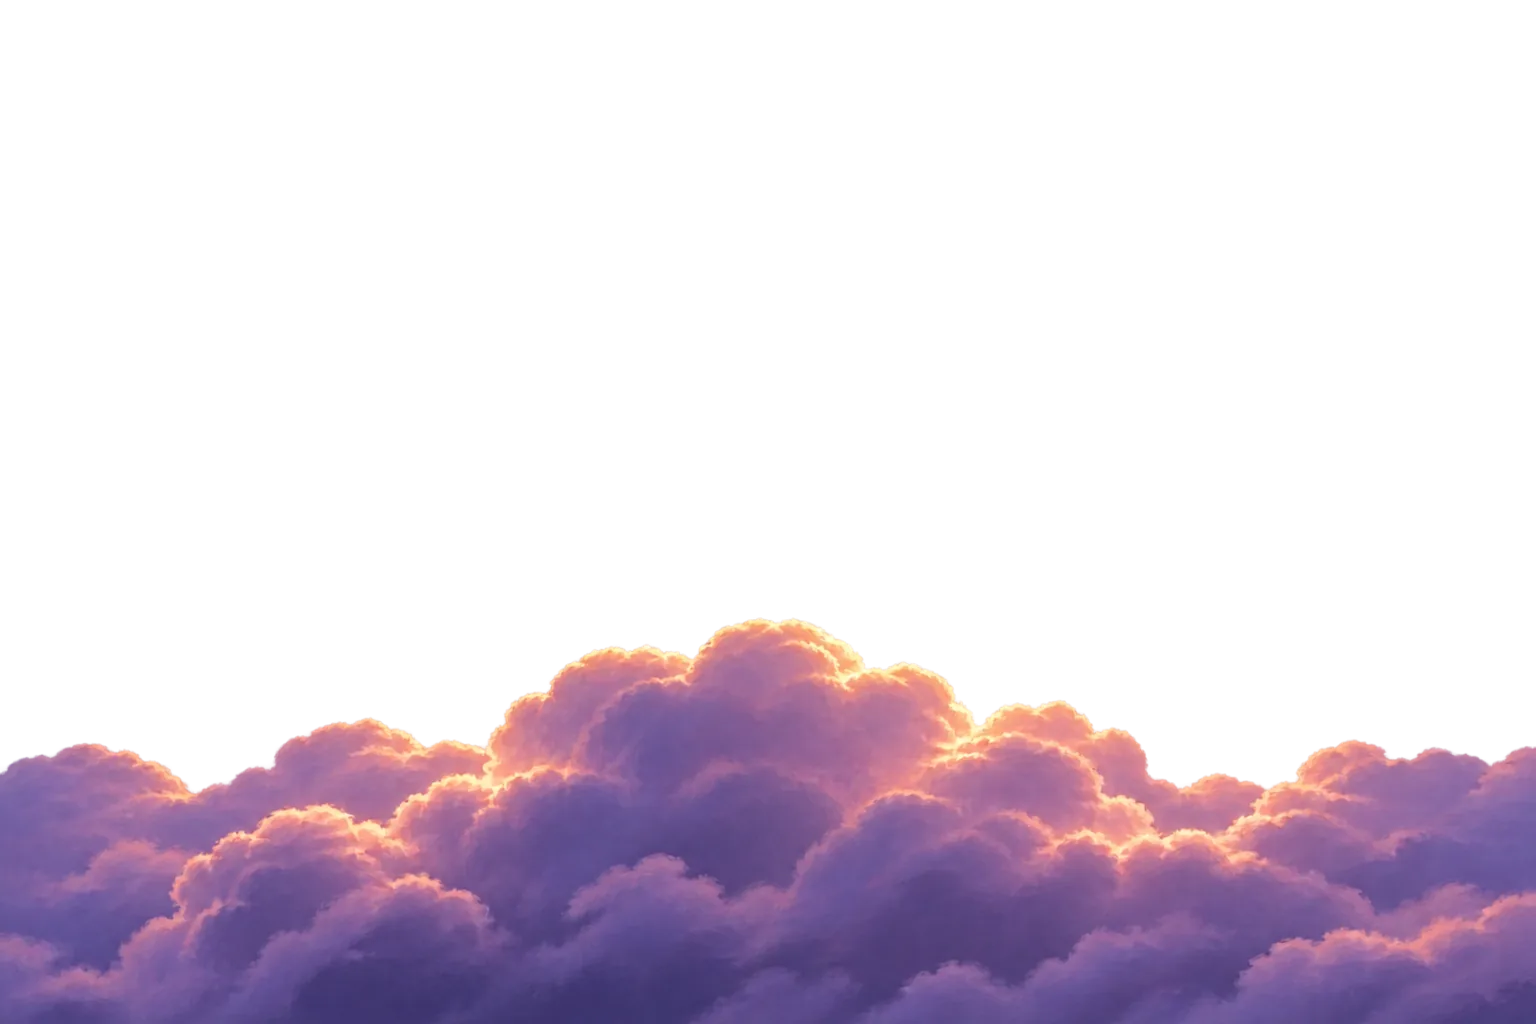
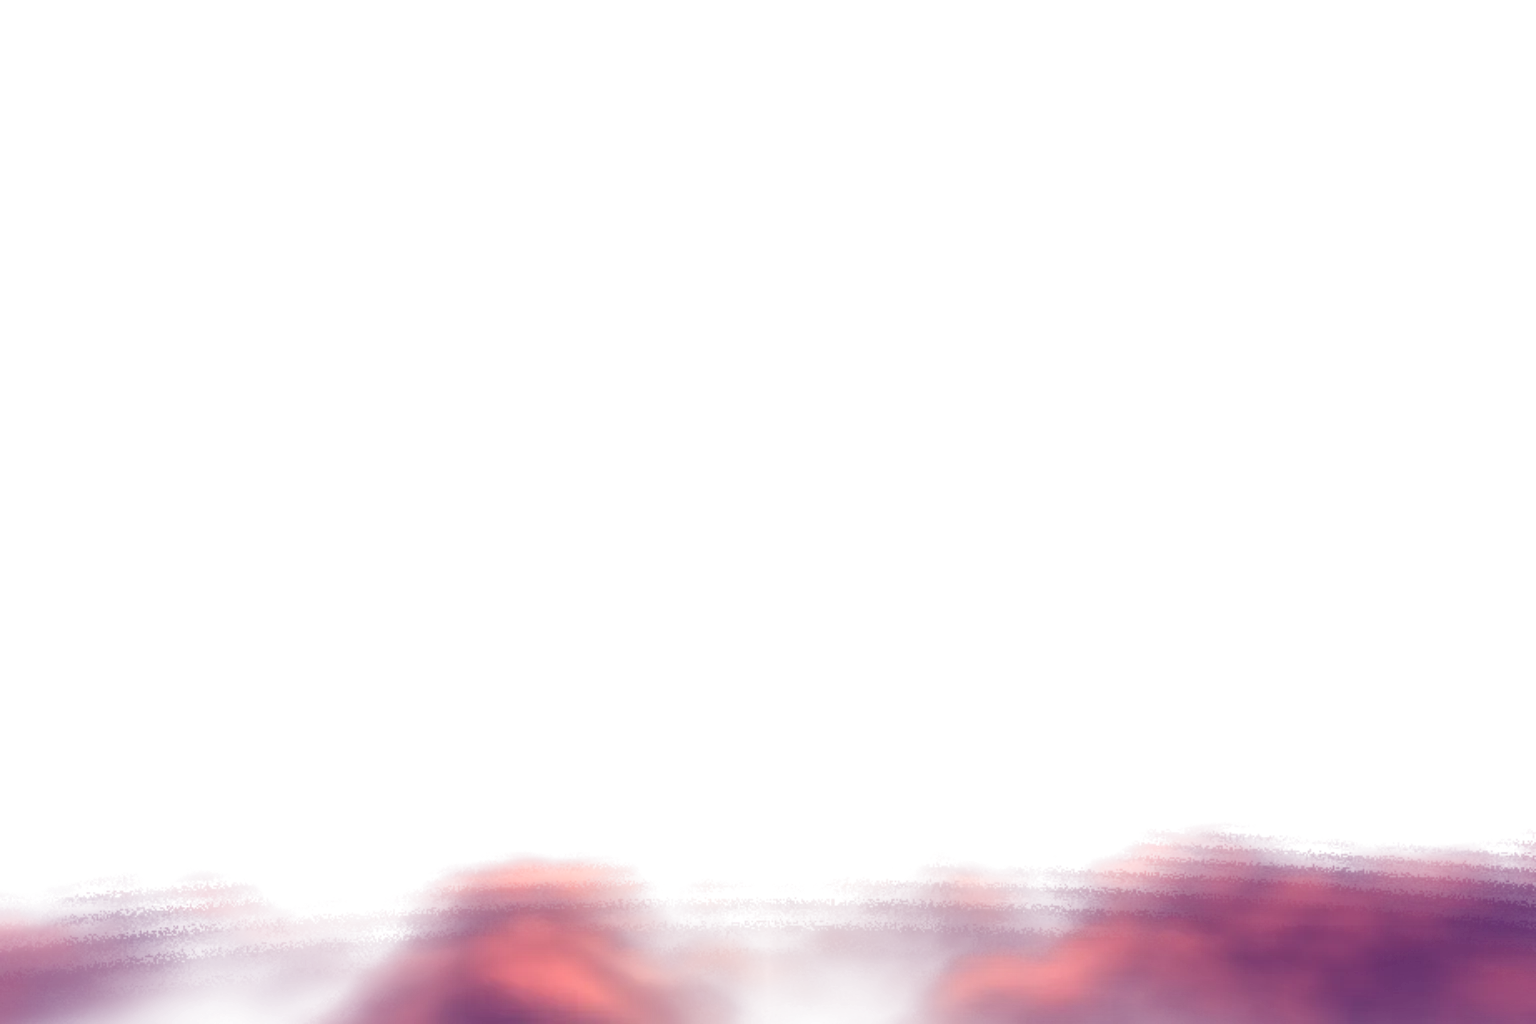
Preview: procedural volumetric sky
Replace the painted sky layers with the shader sky (volumetric clouds, sun optics) and its fallback stills.

Changed region(s): [[0.0, 0.5938, 1.0, 1.0]]

diff --git a/js/landing2/sky-sea.js b/js/landing2/sky-sea.js
@@ -1,0 +1,237 @@
+// Procedural dusk sky above a sea of volumetric clouds (no images, no libraries).
+// Two canvases share one look: `back` draws the sky, the sun optics and the clouds beyond a split distance (opaque);
+// `front` draws only the nearest clouds (transparent elsewhere), so they can sit in front of the characters' feet.
+// Each canvas renders in two passes: soft volumetric clouds into a small offscreen texture (they tolerate low
+// resolution), then a sharper pass that paints the sky and sun and composites the clouds on top.
+const VERT = 'attribute vec2 a; void main(){ gl_Position = vec4(a, 0.0, 1.0); }';
+
+const COMMON = `
+#ifdef GL_FRAGMENT_PRECISION_HIGH
+precision highp float;
+#else
+precision mediump float;
+#endif
+uniform vec2 uRes;
+uniform float uTime, uHz, uSunX, uWarm, uFlash, uScroll, uLayer, uSplit, uAsp;
+float h21(vec2 p){ return fract(sin(dot(p, vec2(127.1, 311.7))) * 43758.5453); }
+float vnoise(vec2 p){
+  vec2 i = floor(p), f = fract(p); f = f * f * (3.0 - 2.0 * f);
+  return mix(mix(h21(i), h21(i + vec2(1.0, 0.0)), f.x), mix(h21(i + vec2(0.0, 1.0)), h21(i + vec2(1.0, 1.0)), f.x), f.y);
+}
+float fbm2(vec2 p){ float s = 0.0, a = 0.5; for (int i = 0; i < 4; i++){ s += a * vnoise(p); p = p * 2.03 + vec2(17.1, 9.2); a *= 0.5; } return s; }
+`;
+
+// ---------- pass 1: volumetric clouds (premultiplied colour + coverage) ----------
+const FRAG_CLOUD = COMMON + `
+float hash3(vec3 p){ p = fract(p * 0.3183099 + 0.1); p *= 17.0; return fract(p.x * p.y * p.z * (p.x + p.y + p.z)); }
+float noise3(vec3 x){
+  vec3 i = floor(x), f = fract(x); f = f * f * (3.0 - 2.0 * f);
+  return mix(mix(mix(hash3(i), hash3(i + vec3(1.0, 0.0, 0.0)), f.x), mix(hash3(i + vec3(0.0, 1.0, 0.0)), hash3(i + vec3(1.0, 1.0, 0.0)), f.x), f.y),
+             mix(mix(hash3(i + vec3(0.0, 0.0, 1.0)), hash3(i + vec3(1.0, 0.0, 1.0)), f.x), mix(hash3(i + vec3(0.0, 1.0, 1.0)), hash3(i + vec3(1.0, 1.0, 1.0)), f.x), f.y), f.z);
+}
+const mat3 M3 = mat3(0.00, 0.80, 0.60, -0.80, 0.36, -0.48, -0.60, -0.48, 0.64);
+// density of the cloud sea: cumulus lumps whose tops billow up to ~1.6
+float den(vec3 p, int oct){
+  vec3 q = p + vec3(uTime * 0.10, 0.0, uTime * 0.035);
+  float lump = smoothstep(0.2, 0.85, noise3(vec3(q.x * 0.11, 0.3, q.z * 0.11)));
+  float top = 0.25 + 1.55 * lump;
+  float f = 0.0, a = 0.5; vec3 r = q * 0.75;
+  for (int i = 0; i < 5; i++){ if (i >= oct) break; f += a * noise3(r); r = M3 * r * 2.03; a *= 0.5; }
+  float d = (top - p.y) * 1.5 + (f - 0.5) * 2.3;
+  return clamp(d, 0.0, 1.0) * smoothstep(-0.3, 0.3, p.y);
+}
+float hg(float mu, float g){ float g2 = g * g; return (1.0 - g2) / pow(1.0 + g2 - 2.0 * g * mu, 1.5) * 0.0796; }
+
+void main(){
+  vec2 frag = gl_FragCoord.xy;
+  float v = 1.0 - frag.y / uRes.y;
+  float x = (frag.x / uRes.x - 0.5) * uAsp;
+  vec3 ro = vec3(0.0, 2.0, uScroll * 2.4);
+  vec3 rd = normalize(vec3(x, uHz - v, 1.3));
+  vec4 acc = vec4(0.0);
+  if (rd.y < -0.0005){
+    vec3 sunDir = normalize(vec3((uSunX - 0.5) * uAsp, 0.035, 1.3));
+    float mu = dot(rd, sunDir);
+    float phase = hg(mu, 0.72) * 0.85 + hg(mu, -0.15) * 0.4;
+    float sunNear = exp(-abs(x - (uSunX - 0.5) * uAsp) * 2.2);
+    float tTop = (ro.y - 1.85) / -rd.y, tBot = (ro.y + 0.3) / -rd.y;
+    bool front = uLayer > 0.5;
+    float t0 = front ? tTop : max(tTop, uSplit);
+    float t1 = min(front ? min(tBot, uSplit) : tBot, 70.0);
+    float t = t0 + 0.02 * h21(frag);                       // jitter against banding
+    for (int i = 0; i < 84; i++){
+      if (t > t1 || acc.a > 0.985) break;
+      vec3 p = ro + rd * t;
+      int oct = t < 7.0 ? 5 : (t < 18.0 ? 4 : 3);
+      float d = den(p, oct);
+      float dt = max(0.045, 0.034 * t);
+      if (d > 0.002){
+        float dl = den(p + sunDir * 0.32, 3);
+        float dif = clamp((d - dl) / 0.45, 0.0, 1.0);
+        float hgt = clamp(p.y / 1.7, 0.0, 1.0);
+        vec3 amb = mix(vec3(0.25, 0.12, 0.37), vec3(0.72, 0.44, 0.70), hgt * hgt);
+        vec3 sunC = mix(vec3(1.0, 0.44, 0.30), vec3(1.0, 0.74, 0.44), sunNear) * 1.15;
+        vec3 lin = amb + sunC * dif * (0.6 + 1.9 * phase) + sunC * phase * 0.4 * (1.0 - d);
+        vec3 c = lin * mix(vec3(1.0), vec3(0.86, 0.80, 0.95), d);
+        float fg = 1.0 - exp(-t * 0.03);
+        vec3 haze = mix(vec3(0.98, 0.58, 0.68), vec3(1.0, 0.78, 0.52), sunNear);
+        c = mix(c, haze, fg * 0.8);
+        c = c / (1.0 + 0.3 * max(c.r, max(c.g, c.b)));       // soft shoulder: no blown-out patch under the sun
+        c = max(mix(vec3(dot(c, vec3(0.299, 0.587, 0.114))), c, 1.3), 0.0);   // painted, saturated look
+        float a = 1.0 - exp(-d * dt * 4.2);
+        acc.rgb += (1.0 - acc.a) * a * c;
+        acc.a += (1.0 - acc.a) * a;
+      }
+      t += dt;
+    }
+  }
+  gl_FragColor = acc;
+}`;
+
+// ---------- pass 2: sky, sun optics, composite ----------
+const FRAG_COMP = COMMON + `
+uniform sampler2D uCloud;
+vec3 spectral(float x){
+  float h = (1.0 - clamp(x, 0.0, 1.0)) * 0.78;
+  return clamp(vec3(abs(h * 6.0 - 3.0) - 1.0, 2.0 - abs(h * 6.0 - 2.0), 2.0 - abs(h * 6.0 - 4.0)), 0.0, 1.0);
+}
+void main(){
+  vec2 frag = gl_FragCoord.xy, uv = frag / uRes;
+  float v = 1.0 - uv.y;
+  float x = (uv.x - 0.5) * uAsp;
+  float sunX = (uSunX - 0.5) * uAsp, sunV = uHz - 0.012;
+  float dxs = x - sunX, sunNear = exp(-abs(dxs) * 2.3);
+  bool back = uLayer < 0.5;
+  vec4 cl = texture2D(uCloud, uv);
+  vec3 col = vec3(0.0);
+
+  if (back){
+    float t = clamp((uHz - v) / max(uHz, 0.01), 0.0, 1.0);
+    vec3 cHz  = mix(vec3(0.99, 0.54, 0.44), vec3(1.0, 0.72, 0.42), sunNear);
+    col = mix(cHz, vec3(0.80, 0.50, 0.64), smoothstep(0.0, 0.09, t));
+    col = mix(col, vec3(0.42, 0.48, 0.82), smoothstep(0.06, 0.36, t));
+    col = mix(col, vec3(0.17, 0.28, 0.66), smoothstep(0.30, 0.72, t));
+    col = mix(col, vec3(0.07, 0.13, 0.42), smoothstep(0.66, 1.0, t));
+    col = mix(col, vec3(1.0, 0.82, 0.52), exp(-abs(dxs) * 2.6) * exp(-t * 10.0) * 0.85);
+    float drift = uTime * 0.006;
+    float n1 = fbm2(vec2(x * 2.6 + drift, t * 16.0)) * fbm2(vec2(x * 6.5 - drift * 2.0 + 3.0, t * 34.0));
+    float m1 = smoothstep(0.30, 0.46, n1) * smoothstep(0.015, 0.06, t) * (1.0 - smoothstep(0.22, 0.42, t));
+    vec3 c1 = mix(vec3(1.0, 0.66, 0.54), vec3(0.96, 0.75, 0.86), smoothstep(0.05, 0.3, t));
+    col = mix(col, mix(c1, vec3(1.0, 0.88, 0.66), sunNear * 0.6), m1 * 0.8);
+    float n2 = fbm2(vec2(x * 1.3 - drift * 0.6, t * 5.5 + 11.0));
+    col = mix(col, vec3(0.62, 0.62, 0.90), smoothstep(0.56, 0.74, n2) * smoothstep(0.28, 0.5, t) * (1.0 - smoothstep(0.8, 0.98, t)) * 0.28);
+    col = col * (1.0 - cl.a) + cl.rgb;                        // clouds over the sky
+
+    vec2 d = vec2(dxs, sunV - v); float r = length(d);
+    float pulse = 1.0 + 0.06 * sin(uTime * 0.8);
+    float core = exp(-r * r * 5000.0) * 2.2 + exp(-r * 55.0) * 0.8;
+    float bloom = (exp(-r * 9.0) * 0.5 + exp(-r * 2.8) * 0.16) * (1.0 + 0.8 * uWarm) * pulse;
+    float pillar = exp(-abs(d.x) * 90.0) * exp(-abs(d.y) * 2.3) * 0.55 * (0.9 + 0.1 * sin(uTime * 1.7 + v * 40.0));
+    float hstreak = exp(-abs(d.y) * 170.0) * exp(-abs(d.x) * 2.4) * 0.55;
+    float rays = pow(max(0.0, cos(atan(d.y, d.x) * 7.0 + uTime * 0.03)), 26.0) * exp(-r * 7.0) * 0.22;
+    col += vec3(1.0, 0.95, 0.84) * core + vec3(1.0, 0.70, 0.40) * bloom + vec3(1.0, 0.92, 0.74) * (pillar + rays) + vec3(1.0, 0.86, 0.62) * hstreak;
+    float k = (r - 0.215) / 0.034;
+    col += spectral(0.5 + k * 0.45) * exp(-k * k * 1.8) * 0.11 * smoothstep(-0.03, 0.08, d.y);
+    vec2 dir = normalize(vec2(0.55, -0.85));
+    for (int g = 0; g < 4; g++){
+      float kk = 0.17 + 0.13 * float(g), rad = 0.006 + 0.005 * float(g);
+      float gr = length(d - dir * kk);
+      col += vec3(1.0, 0.62, 0.32) * (smoothstep(rad, rad * 0.35, gr) * 0.2 + exp(-gr * 70.0) * 0.05);
+    }
+    col = mix(col, vec3(1.0, 0.95, 0.86), uFlash * 0.55);
+    col *= 1.0 + uWarm * 0.1;
+    gl_FragColor = vec4(col, 1.0);
+  } else {
+    vec2 d = vec2(dxs, sunV - v);
+    vec3 c = cl.rgb + vec3(1.0, 0.9, 0.7) * exp(-abs(d.x) * 90.0) * exp(-abs(d.y) * 2.3) * 0.3 * cl.a;
+    gl_FragColor = vec4(c * (1.0 + uWarm * 0.1), cl.a);
+  }
+}`;
+
+function program(gl, fsrc) {
+  const mk = (type, src) => { const s = gl.createShader(type); gl.shaderSource(s, src); gl.compileShader(s); if (!gl.getShaderParameter(s, gl.COMPILE_STATUS)) throw new Error(gl.getShaderInfoLog(s)); return s; };
+  const p = gl.createProgram();
+  gl.attachShader(p, mk(gl.VERTEX_SHADER, VERT)); gl.attachShader(p, mk(gl.FRAGMENT_SHADER, fsrc)); gl.linkProgram(p);
+  if (!gl.getProgramParameter(p, gl.LINK_STATUS)) throw new Error(gl.getProgramInfoLog(p));
+  const U = {}; for (const n of ['uRes', 'uTime', 'uHz', 'uSunX', 'uWarm', 'uFlash', 'uScroll', 'uLayer', 'uSplit', 'uAsp', 'uCloud']) U[n] = gl.getUniformLocation(p, n);
+  return { p, U };
+}
+
+function makeGL(canvas, opaque) {
+  const gl = canvas.getContext('webgl', { antialias: false, alpha: !opaque, premultipliedAlpha: true, powerPreference: 'default', preserveDrawingBuffer: true });
+  if (!gl) return null;
+  const buf = gl.createBuffer(); gl.bindBuffer(gl.ARRAY_BUFFER, buf);
+  gl.bufferData(gl.ARRAY_BUFFER, new Float32Array([-1, -1, 3, -1, -1, 3]), gl.STATIC_DRAW);
+  const cloud = program(gl, FRAG_CLOUD), comp = program(gl, FRAG_COMP);
+  for (const pr of [cloud, comp]) { const loc = gl.getAttribLocation(pr.p, 'a'); gl.enableVertexAttribArray(loc); gl.vertexAttribPointer(loc, 2, gl.FLOAT, false, 0, 0); }
+  const tex = gl.createTexture(); gl.bindTexture(gl.TEXTURE_2D, tex);
+  gl.texParameteri(gl.TEXTURE_2D, gl.TEXTURE_MIN_FILTER, gl.LINEAR); gl.texParameteri(gl.TEXTURE_2D, gl.TEXTURE_MAG_FILTER, gl.LINEAR);
+  gl.texParameteri(gl.TEXTURE_2D, gl.TEXTURE_WRAP_S, gl.CLAMP_TO_EDGE); gl.texParameteri(gl.TEXTURE_2D, gl.TEXTURE_WRAP_T, gl.CLAMP_TO_EDGE);
+  const fbo = gl.createFramebuffer();
+  return { gl, canvas, cloud, comp, tex, fbo, tw: 0, th: 0 };
+}
+
+// horizon position (fraction of height from the top)
+export const horizonFor = (W, H) => (W / H < 0.8 ? 0.565 : 0.58);
+
+export function createSkySea({ back, front }, { scale = 0.75, cloudScale = 0.42, split = 8.5 } = {}) {
+  const B = makeGL(back, true); if (!B) return null;
+  const F = front ? makeGL(front, false) : null;
+  const st = { t: 0, warm: 0, flash: 0, scroll: 0, scale, cloudScale, split, raf: 0, paused: new Set(), last: performance.now(), dead: false,
+    hz: 0.58, sunX: 0.5, W: 1, H: 1, frames: 0, acc: 0 };
+
+  function setUniforms(gl, U, w, h, layer) {
+    gl.uniform2f(U.uRes, w, h); gl.uniform1f(U.uTime, st.t); gl.uniform1f(U.uHz, st.hz); gl.uniform1f(U.uSunX, st.sunX);
+    gl.uniform1f(U.uWarm, st.warm); gl.uniform1f(U.uFlash, st.flash); gl.uniform1f(U.uScroll, st.scroll);
+    gl.uniform1f(U.uLayer, layer); gl.uniform1f(U.uSplit, st.split); gl.uniform1f(U.uAsp, st.W / st.H);
+  }
+  function drawOne(ctx, layer) {
+    const { gl, canvas } = ctx;
+    const r = canvas.getBoundingClientRect();
+    const W = Math.max(2, r.width), H = Math.max(2, r.height);
+    if (layer === 0) { st.W = W; st.H = H; st.hz = horizonFor(W, H); }
+    const w = Math.max(2, Math.round(W * st.scale)), h = Math.max(2, Math.round(H * st.scale));
+    if (w !== canvas.width || h !== canvas.height) { canvas.width = w; canvas.height = h; }
+    const tw = Math.max(2, Math.round(W * st.cloudScale)), th = Math.max(2, Math.round(H * st.cloudScale));
+    if (tw !== ctx.tw || th !== ctx.th) {
+      ctx.tw = tw; ctx.th = th;
+      gl.bindTexture(gl.TEXTURE_2D, ctx.tex); gl.texImage2D(gl.TEXTURE_2D, 0, gl.RGBA, tw, th, 0, gl.RGBA, gl.UNSIGNED_BYTE, null);
+      gl.bindFramebuffer(gl.FRAMEBUFFER, ctx.fbo); gl.framebufferTexture2D(gl.FRAMEBUFFER, gl.COLOR_ATTACHMENT0, gl.TEXTURE_2D, ctx.tex, 0);
+    }
+    // pass 1: clouds into the small texture
+    gl.bindFramebuffer(gl.FRAMEBUFFER, ctx.fbo); gl.viewport(0, 0, tw, th);
+    gl.useProgram(ctx.cloud.p); setUniforms(gl, ctx.cloud.U, tw, th, layer);
+    gl.clearColor(0, 0, 0, 0); gl.clear(gl.COLOR_BUFFER_BIT); gl.drawArrays(gl.TRIANGLES, 0, 3);
+    // pass 2: sky + optics + composite at canvas resolution
+    gl.bindFramebuffer(gl.FRAMEBUFFER, null); gl.viewport(0, 0, w, h);
+    gl.useProgram(ctx.comp.p); setUniforms(gl, ctx.comp.U, w, h, layer);
+    gl.activeTexture(gl.TEXTURE0); gl.bindTexture(gl.TEXTURE_2D, ctx.tex); gl.uniform1i(ctx.comp.U.uCloud, 0);
+    gl.clear(gl.COLOR_BUFFER_BIT); gl.drawArrays(gl.TRIANGLES, 0, 3);
+  }
+  function draw() { drawOne(B, 0); if (F) drawOne(F, 1); }
+  function frame(now) {
+    st.raf = 0; if (st.dead || st.paused.size) return;
+    const dt = Math.min(0.1, (now - st.last) / 1000); st.t += dt; st.last = now;
+    // adaptive quality: when frames run long, render the clouds at a lower resolution
+    st.acc += dt; st.frames++;
+    if (st.acc > 1.5) { const avg = st.acc / st.frames; if (avg > 0.028 && st.cloudScale > 0.22) st.cloudScale *= 0.85; st.acc = 0; st.frames = 0; }
+    draw(); st.raf = requestAnimationFrame(frame);
+  }
+  const wake = () => { if (!st.raf && !st.paused.size && !st.dead) { st.last = performance.now(); st.raf = requestAnimationFrame(frame); } };
+  const onVis = () => api.setPaused('hidden', document.hidden);
+  document.addEventListener('visibilitychange', onVis);
+  const io = new IntersectionObserver((es) => api.setPaused('offscreen', !es[es.length - 1].isIntersecting)); io.observe(back);
+
+  const api = {
+    setPaused(r, on) { on ? st.paused.add(r) : st.paused.delete(r); if (!on) wake(); },
+    setLook(warm, flash) { st.warm = warm; st.flash = flash; },
+    setScroll(p) { st.scroll = p; },
+    setScale(s) { st.scale = Math.max(s, 0.5); },
+    setTime(t) { st.t = t; },
+    sun() { return { x: st.W * st.sunX, y: st.H * (st.hz - 0.012), hz: st.H * st.hz }; },
+    start() { wake(); },
+    drawOnce() { draw(); },
+    dispose() { st.dead = true; cancelAnimationFrame(st.raf); io.disconnect(); document.removeEventListener('visibilitychange', onVis); for (const c of [B, F]) c?.gl.getExtension('WEBGL_lose_context')?.loseContext(); },
+  };
+  return api;
+}

diff --git a/js/landing2/main.js b/js/landing2/main.js
@@ -3,7 +3,7 @@ import { MOBILE_MQ, heroPose, posterPose, deskPose, projectAll, boardCorners, pa
 import { createPaper } from '../proto/paper.js';
 import { createTimeline, seg, smooth, easeSine } from '../landing/timeline.js';
 import { initSections } from '../landing/sections.js';
-import { createSky } from './sky.js';
+import { createSkySea } from './sky-sea.js';
 import { createSkyLayers } from './sky-layers.js';
 import { CTA_LABEL, CTA_MICRO } from './config.js';
 
@@ -114,8 +114,8 @@ function tick(now) {
     S.p = S.state === 'story' ? tl.step(dt) : tl.value;
     if (S.layers && S.p < 0.84) {
       const sun = S.layers.update(t, S.p);
-      if (S.sky) S.sky.setSun(sun.x / S.layers.state.W, 1 - sun.y / S.layers.state.H, 1 - sun.hz / S.layers.state.H, sun.scale * 1024 / S.layers.state.H);
     }
+    if (S.sky) S.sky.setScroll(Math.min(S.p, 0.84));
     beats(S.p, t);
   }
   navTheme(S.p);
@@ -130,10 +130,10 @@ function afterLoadIdle(cb, timeout = 2500) {
 const isMob = () => innerWidth <= 600 || innerWidth < innerHeight;
 function startSky() {
   try {
-    S.sky = createSky($('sky'), { scale: isMob() ? 0.5 : 0.6 });
+    S.sky = createSkySea({ back: $('sky'), front: $('skyFront') }, { scale: isMob() ? 0.6 : 0.75, cloudScale: isMob() ? 0.36 : 0.42 });
     if (!S.sky) throw new Error('no webgl');
     S.sky.drawOnce(); S.sky.start(); hero.classList.add('sky-on');
-    addEventListener('resize', () => S.sky.setScale(isMob() ? 0.5 : 0.6));
+    addEventListener('resize', () => S.sky.setScale(isMob() ? 0.6 : 0.75));
   } catch (e) { console.warn('sky unavailable', e); S.sky = null; }
 }
 async function startCharacters() {
@@ -238,7 +238,7 @@ async function boot() {
   layoutPoster(); size();
   S.layers = createSkyLayers(stage, { animate: !reason });
   S.layers.layout(); S.layers.update(0, 0);
-  setTimeout(() => S.layers.load(['mid', 'front']), 0);   // LCP sky-back first, clouds right after
+  setTimeout(() => S.layers.load(['front']), 0);   // LCP sky-back first, front clouds right after
   hero.classList.add('ready');
   new ResizeObserver(() => { layoutPoster(); tl.read(); S.layers.layout(); if (html.dataset.mode === 'poster') S.layers.update(0, 0); }).observe(stage);
   afterLoadIdle(loadDeskPoster, 4000);

diff --git a/css/landing2.css b/css/landing2.css
@@ -8,9 +8,10 @@ html[data-mode="poster"] .story-pin { position: relative; }
 
 /* ---------- layers ---------- */
 .sky-css { position: absolute; inset: 0; background: linear-gradient(180deg, #0a1655 0%, #2c2175 22%, #6b3a95 38%, #d9588f 50%, #ffb877 58%, #ffd49a 59.5%, #a08be0 64%, #7a63c2 80%, #50429c 100%); }
-#sky, #chars { position: absolute; inset: 0; width: 100%; height: 100%; display: block; opacity: 0; transition: opacity .9s ease; }
-.hero.sky-on #sky, .hero.chars-on #chars { opacity: 1; }
-html[data-mode="poster"] #sky, html[data-mode="poster"] #chars { display: none; }
+#sky, #chars, #skyFront { position: absolute; inset: 0; width: 100%; height: 100%; display: block; opacity: 0; transition: opacity .9s ease; }
+.hero.sky-on #sky, .hero.sky-on #skyFront, .hero.chars-on #chars { opacity: 1; }
+.hero.sky-on .sky-img { visibility: hidden; }   /* the shader paints the sky; images are the static fallback */
+html[data-mode="poster"] #sky, html[data-mode="poster"] #skyFront, html[data-mode="poster"] #chars { display: none; }
 .room-layer { position: absolute; inset: 0; opacity: var(--roomO, 0); visibility: hidden; }
 .hero.room-on .room-layer { visibility: visible; }
 html[data-mode="poster"] #poster, html[data-mode="poster"] #gl { display: none; }
@@ -143,7 +144,7 @@ html.reduced .scroll-cue i { animation: none; }
 .sky-img { position: absolute; left: 0; top: 0; width: 100%; height: 100%; object-fit: cover; object-position: 50% 58%; max-width: none; pointer-events: none; user-select: none; will-change: transform; }
 #layerMid, #layerFront { opacity: 0; transition: opacity .8s ease; }
 #layerMid.on, #layerFront.on { opacity: 1; }
-.hero.sky-gone .sky-img, .hero.sky-gone #sky { visibility: hidden; }
+.hero.sky-gone .sky-img, .hero.sky-gone #sky, .hero.sky-gone #skyFront { visibility: hidden; }
 .static-chars { z-index: auto; }
 .sc { position: absolute; height: 58vh; width: auto; top: auto; max-width: none; transform: none; filter: drop-shadow(0 16px 26px rgba(20, 10, 70, .3)); }
 .sc-boy { left: 5vw; right: auto; bottom: 8vh; }

diff --git a/index.html b/index.html
@@ -42,12 +42,12 @@
     <div class="sky-css" aria-hidden="true"></div>
     <img class="sky-img" id="layerBack" src="assets/img/sky/sky-back.webp" width="1536" height="1024" fetchpriority="high" decoding="async" alt="" aria-hidden="true">
     <canvas id="sky" aria-hidden="true"></canvas>
-    <img class="sky-img" id="layerMid" data-src="assets/img/sky/clouds-mid.webp" width="1536" height="1024" decoding="async" alt="" aria-hidden="true">
     <div class="static-chars" aria-hidden="true">
       <img class="sc sc-boy" src="assets/img/characters/siswa-cowok-berdiri.webp" width="1024" height="1536" alt="" decoding="async">
       <img class="sc sc-girl" src="assets/img/characters/siswa-cewek-berdiri.webp" width="1024" height="1536" alt="" decoding="async">
     </div>
     <canvas id="chars" aria-hidden="true"></canvas>
+    <canvas id="skyFront" aria-hidden="true"></canvas>
     <img class="sky-img" id="layerFront" data-src="assets/img/sky/clouds-front.webp" width="1536" height="1024" decoding="async" alt="" aria-hidden="true">
     <div class="room-layer" id="roomLayer">
       <picture id="poster">

diff --git a/js/landing2/sky-layers.js b/js/landing2/sky-layers.js
@@ -1,11 +1,10 @@
-// Painted sky: a stack of image layers (back sky, mid clouds, front clouds) that share one horizon/sun alignment.
+// Static sky fallback: still frames of the shader sky (back sky + clouds, front clouds) that share one horizon/sun alignment.
 // Each layer drifts sideways, ping-ponging with easing, and rises slightly on scroll (front faster). Transform-only.
 // Layers are optional: give a layer `url: null` and it is skipped, so any layer can be swapped or added via this config.
 export const SKY = {
-  geom: { w: 1536, h: 1024, horizonY: 594, sunX: 768, sunY: 592, zoom: 1.2, bottomMargin: 70 },
+  geom: { w: 1536, h: 1024, horizonY: 594, sunX: 768, sunY: 582, zoom: 1.2, bottomMargin: 70 },   // stills rendered from sky-sea.js
   layers: [
     { id: 'back',  el: 'layerBack',  drift: 0.003, rise: 0 },
-    { id: 'mid',   el: 'layerMid',   drift: 0.008, rise: 22 },
     { id: 'front', el: 'layerFront', drift: 0.016, rise: 60 },
   ],
 };
